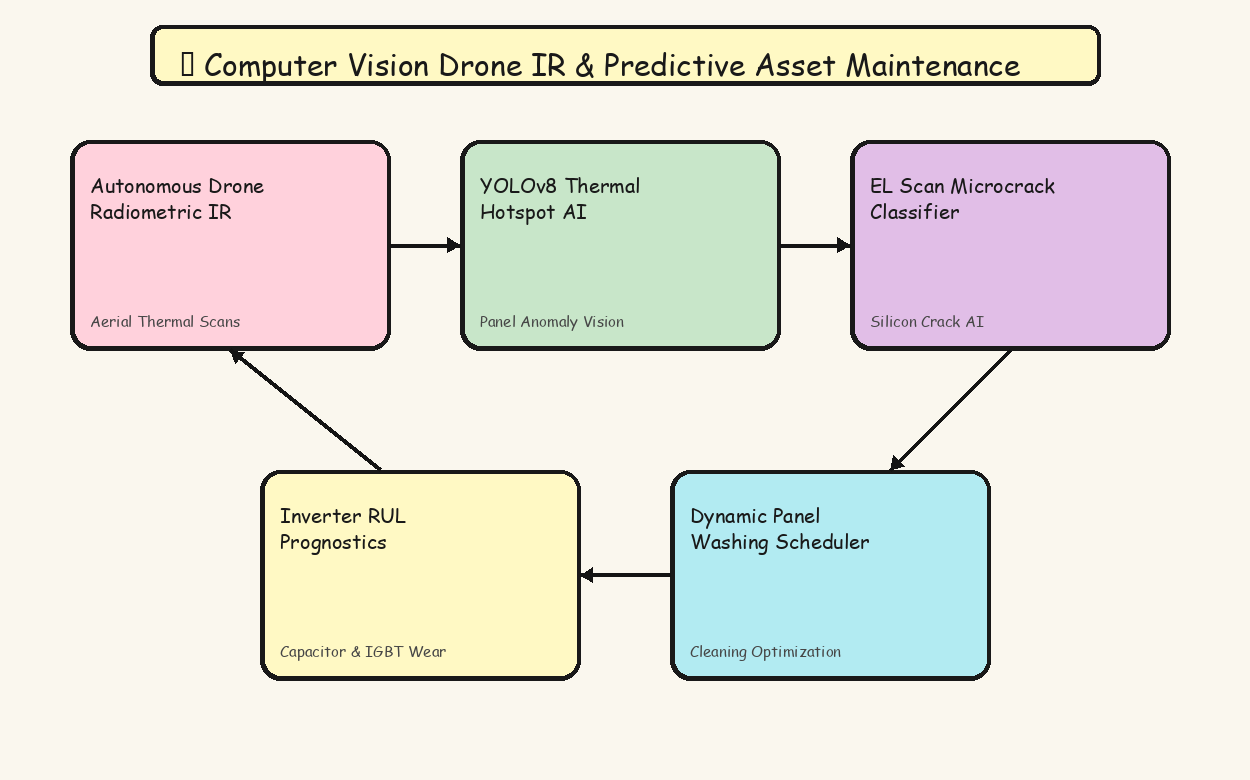
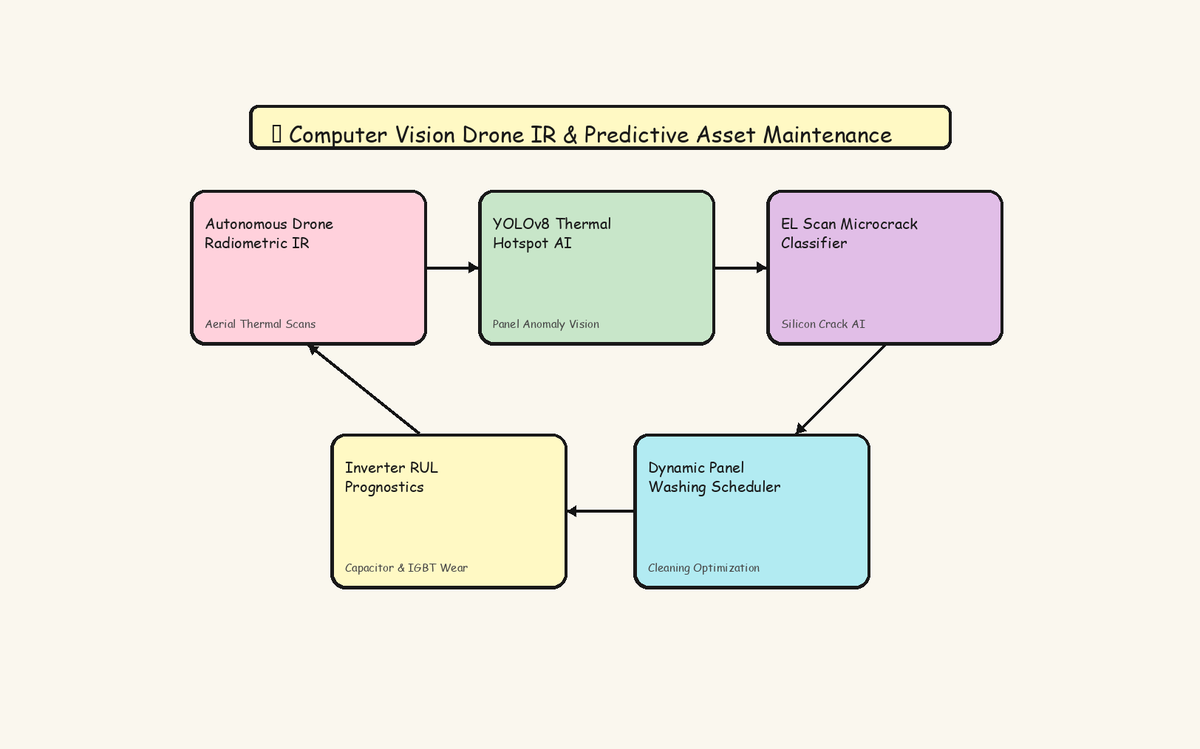
docs: add 15% canvas padding to asset_health_cv_workflow.png to prevent sideways overflow (Srilakshmi Peddinti)

diff --git a/scratch/inspect_and_fix_asset_health.py b/scratch/inspect_and_fix_asset_health.py
@@ -1,0 +1,41 @@
+import os
+from PIL import Image, ImageOps, ImageDraw
+
+def fix_asset_health_image():
+    img_path = "docs/images/asset_health_cv_workflow.png"
+    if not os.path.exists(img_path):
+        print(f"File {img_path} not found.")
+        return
+
+    orig_img = Image.open(img_path).convert("RGBA")
+    w, h = orig_img.size
+    print(f"Original image size: {w}x{h}")
+
+    # Create a padded 16:9 canvas with light cream background matching the whiteboard doodle style (#FAF7EE)
+    padding_x = int(w * 0.15)
+    padding_y = int(h * 0.15)
+    
+    new_w = w + (padding_x * 2)
+    new_h = h + (padding_y * 2)
+    
+    # Cream background color from doodle diagrams: #FAF7EE
+    bg_color = (250, 247, 238, 255)
+    
+    # Create canvas
+    canvas = Image.new("RGBA", (new_w, new_h), bg_color)
+    
+    # Paste original image in center
+    canvas.paste(orig_img, (padding_x, padding_y), orig_img)
+    
+    # Resize to standard high-res 1200x850 for markdown display
+    target_w = 1200
+    aspect = new_h / new_w
+    target_h = int(target_w * aspect)
+    
+    resized_canvas = canvas.resize((target_w, target_h), Image.Resampling.LANCZOS)
+    
+    resized_canvas.save("docs/images/asset_health_cv_workflow.png")
+    print(f"Successfully padded and scaled docs/images/asset_health_cv_workflow.png to {target_w}x{target_h}!")
+
+if __name__ == "__main__":
+    fix_asset_health_image()

diff --git a/README.md b/README.md
@@ -67,7 +67,7 @@ The **AI-Powered Solar Energy Prediction & Analytics System** is a production-re
 <div align="center">
   <img src="docs/images/asset_health_cv_workflow.png" alt="Asset Health CV Workflow" width="800"/>
   <br>
-  <i>Figure 4: Digital whiteboard doodle diagram showing drone radiometric thermal infrared vision and inverter RUL prognostics.</i>
+  <i>Figure 4: Digital whiteboard doodle diagram showing drone radiometric thermal infrared vision, EL microcrack AI, and inverter RUL prognostics.</i>
 </div>
 
 ---